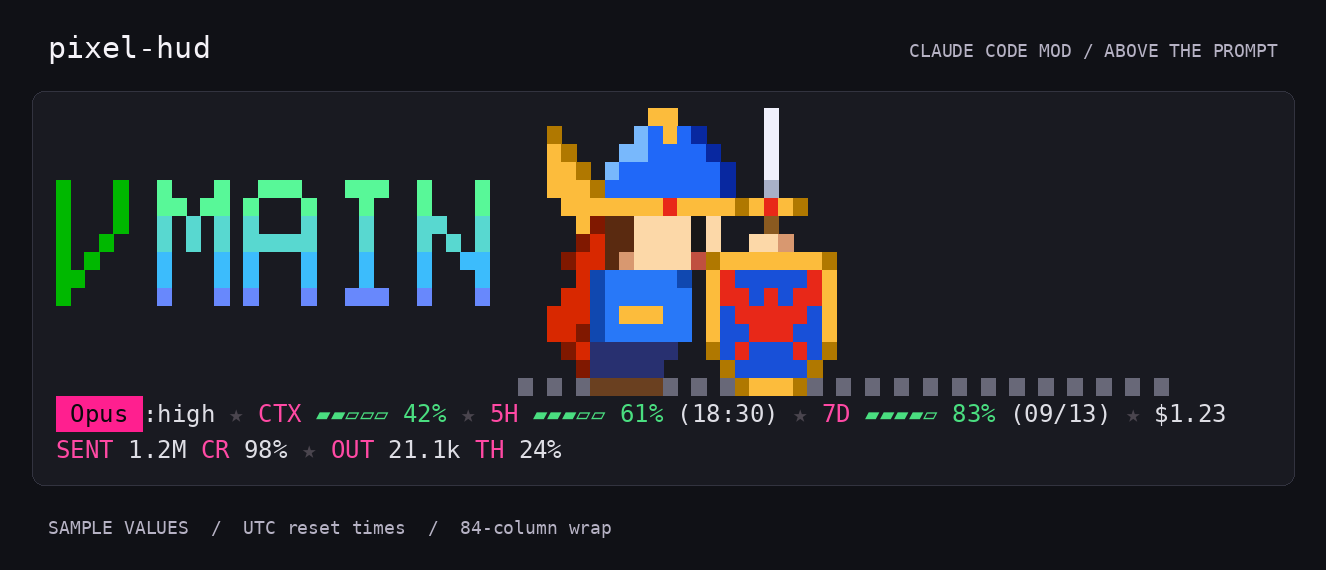
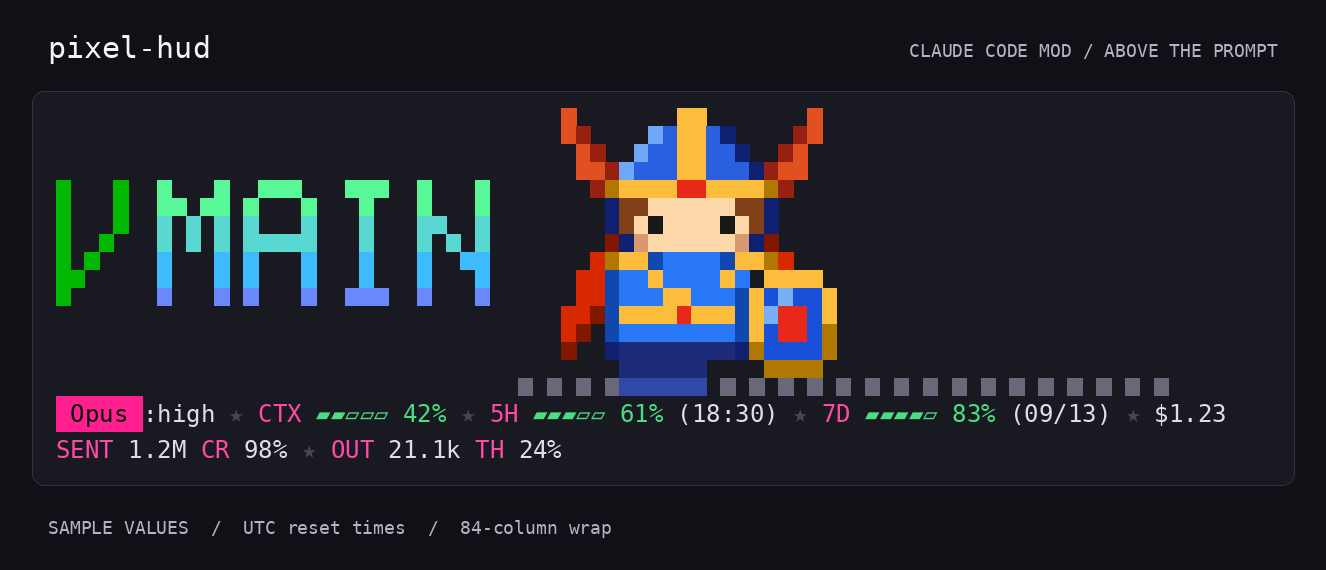
docs(pixel-hud): describe the horned hero and the sixteen-monster roster
Refresh the quest showcase PNG and GIF with the new hero.

Changed region(s): [[0.402, 0.1789, 0.6493, 0.7158]]

diff --git a/docs/specs/quest-stage.md b/docs/specs/quest-stage.md
@@ -103,9 +103,9 @@ Original pixel art in the NES palette the slimes use. Do not copy any
 published game's sprites. The quest stage is 16 pixels tall (8 text rows),
 like the slime stage.
 
-- **Hero**: the Loto hero, 20 wide by 16 tall (26 wide when attacking). Blue
-  armour, a winged helmet with the gold Loto crest, a crest shield, and a sword
-  with a winged hilt.
+- **Hero**: 20 wide by 16 tall (26 wide when attacking), after the horned SFC
+  hero: a blue helmet with red horns, a gold crest and a red jewel, gold-trimmed
+  blue armour, a red cape, a round blue shield with a red jewel, and a sword.
   Poses: WALK_A and WALK_B (legs apart, legs together), STAND, ATTACK (sword
   forward), HURT (for flicker), CHEER (sword up, for level-up). The hero
   stands near the left of the stage, about column 2.
@@ -114,7 +114,10 @@ like the slime stage.
 - **Monsters**, up to 16 wide and 11 to 16 tall: `slime` (a green
   quest-slime, not one of the slime family's kin), `bat` (purple, wings
   flapping between two frames), `skeleton` (bone white), `ghost` (pale blue,
-  bobbing two pixels).
+  bobbing two pixels). Twelve more join them, after the Dragon Quest II
+  monster sheet: `metalSlime`, `healslime`, `eyeball`, `mage`, `gremlin`,
+  `mummy`, `cobra`, `flame`, `treeface`, `cyclops`, `gargoyle` and
+  `maneater`. Each has a display name for battle messages.
 - **Skills**:
   - `slash`: the hero steps forward one pixel in ATTACK, and a white
     diagonal streak appears over the monster for 2 ticks.

diff --git a/README.md b/README.md
@@ -105,8 +105,9 @@ values as the image above; [reproduce them](docs/showcase/README.md#the-mod-imag
 ![pixel-hud's quest stage: a blue-armoured hero walks beside the branch, a monster scrolls in, the hero strikes it with a skill, and it bursts.](https://raw.githubusercontent.com/huijoson/hudline/main/docs/showcase/pixel-hud-quest.gif)
 
 Pick **quest** under **Stage theme** (`stage`, **slimes** by default) in `/config`
-for a walking hero. After a completed main-agent reply, a random slime, bat,
-ghost or skeleton scrolls in. The hero uses slash, fireball or thunder, picked
+for a walking hero. After a completed main-agent reply, one of 16 monsters
+scrolls in, from slimes, Dracky and ghosts to a Treeface, a Gigantes and a
+Gargoyle. The hero uses slash, fireball or thunder, picked
 separately at random. Battles need room beside the branch and give way to the compaction
 level-up. Replies during a battle or level-up do not start another battle.
 Type `/quest-battle [monster] [skill]` to summon a battle now; omit either pick for
